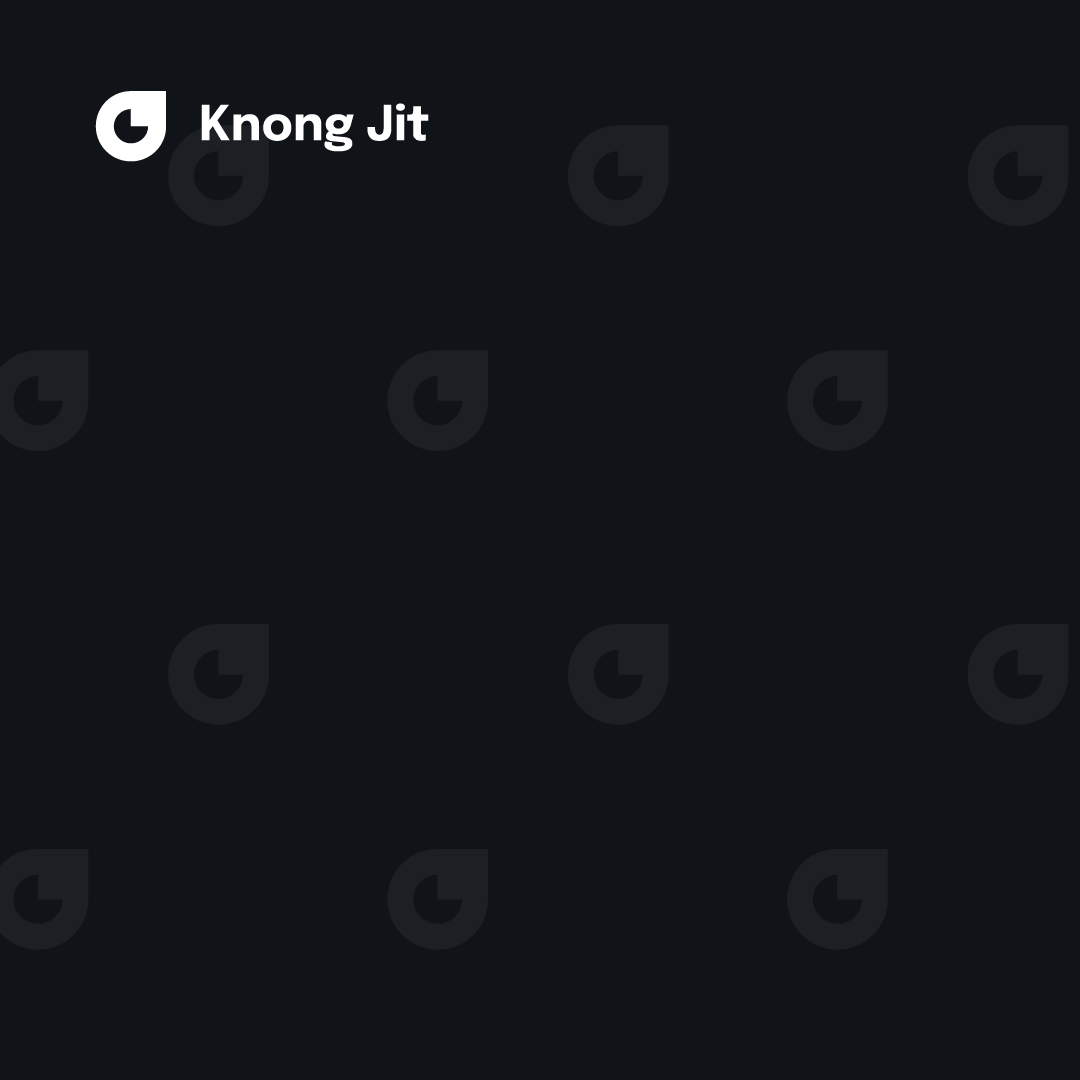
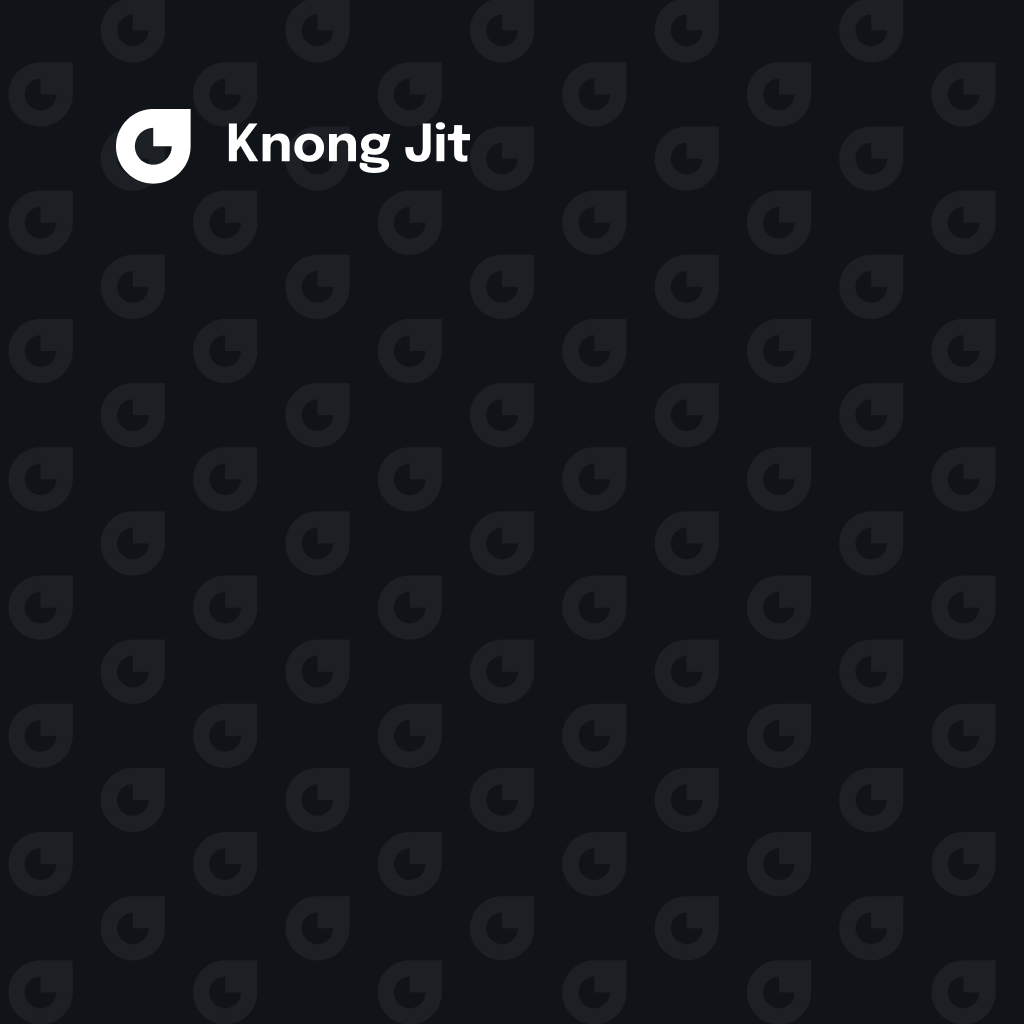
fix to new branding poster

Changed region(s): [[0.0625, 0.0625, 0.4688, 0.1875]]

diff --git a/src/views/Generate.vue b/src/views/Generate.vue
@@ -51,42 +51,28 @@ export default {
 <style scoped>
 .preview {
     color: white;
-    width: 1080px;
-    height: 1080px;
+    width: 1024px;
+    height: 1024px;
 }
 
 .data {
     position: absolute;
-    top: 0;
-    width: 1080px;
-    display: grid;
-    height: 1080px;
-    grid-template-rows: 300px auto;
+    bottom: 10px;
+    text-align: start;
+    margin-left: 120px;
 }
 
 .id {
-    justify-self: flex-end;
-    margin: 110px;
-    font-size: 30px;
-}
-
-.title {
-    justify-self: start;
-    text-align: start;
-    display: grid;
-    align-content: end;
-    margin: 0 110px 110px 110px;
-    font-size: 80px;
-    font-weight: bolder;
-}
-
-.title > span {
-    text-align: start;
-    line-height: 110px;
+    font-size: 42px;
+    opacity: 0.8;
 }
 
 .title > div {
     line-height: 100px;
+    font-size: 85px;
+    max-width: 784px;
+    margin-top: 38px;
+    font-weight: bolder;
 }
 
 .input-data {
